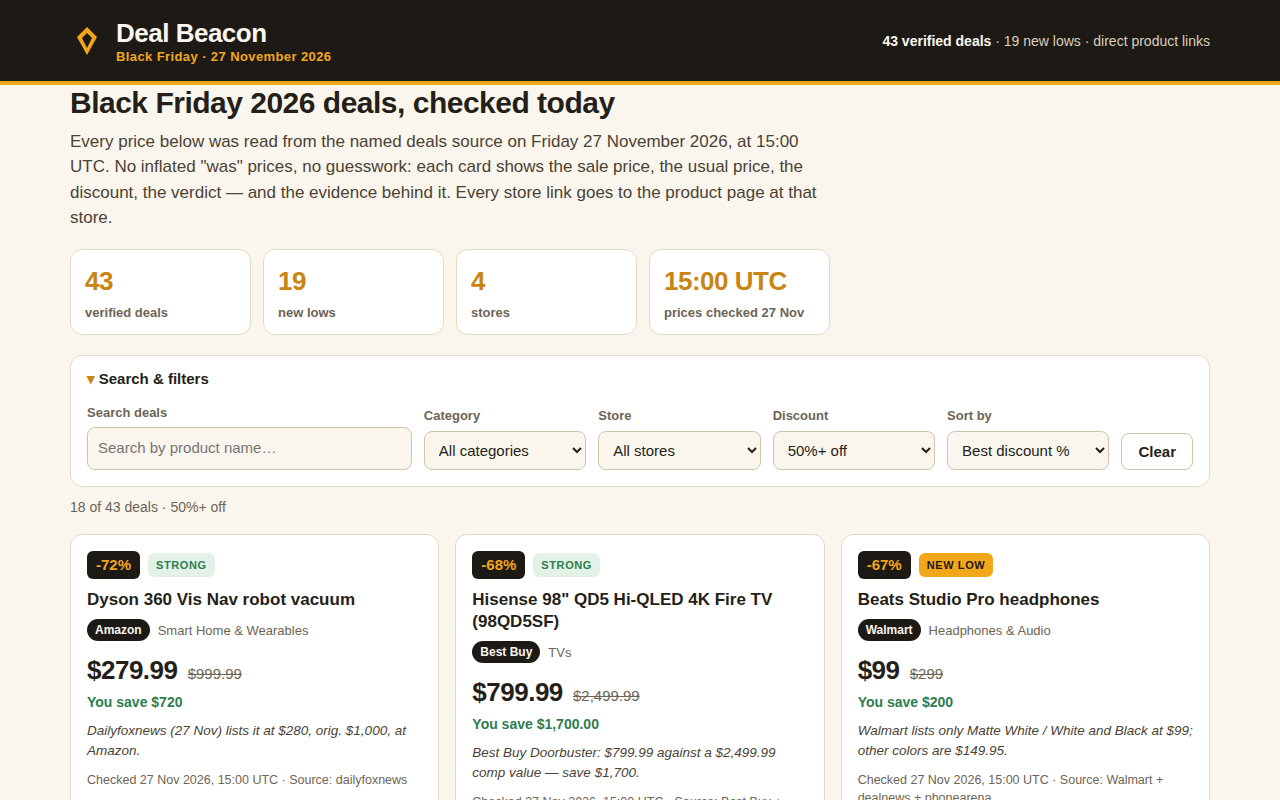
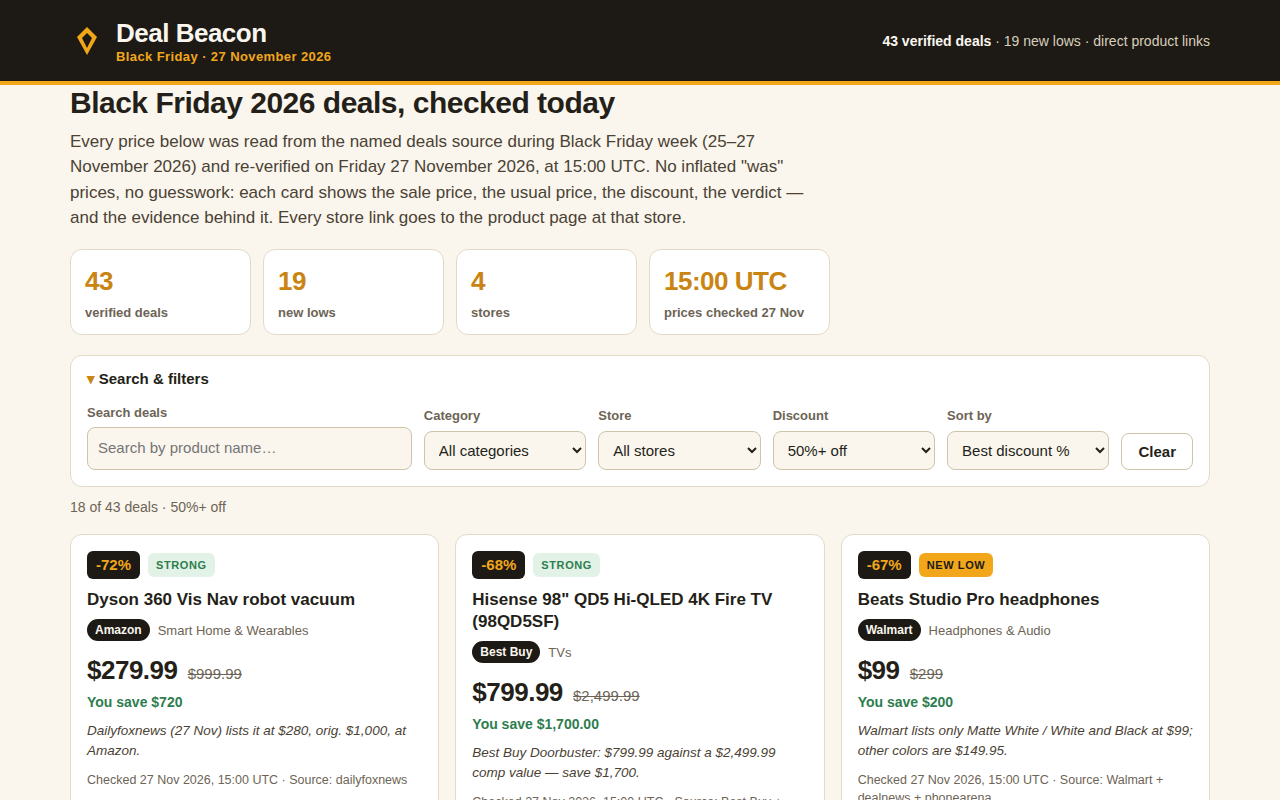
Deal Beacon v2 fixes (Hermes FIX FIRST): Kindle corrected to Target $124.99/$159.99 (22%, GOOD); check-time copy honest (25-27 Nov read, 27 Nov 15:00 UTC re-verify); 1-deals shot taller (1050px, View-at buttons visible); phone shot re-taken with metrics set before navigate (filters collapsed, cards 

Changed region(s): [[0.0625, 0.1562, 0.6562, 0.2812]]

diff --git a/app/views.js b/app/views.js
@@ -83,7 +83,7 @@ export function listPage(shown, state, counts) {
   const s = counts.stats;
   return `<section class="intro">
   <h1>Black Friday 2026 deals, checked today</h1>
-  <p class="lede">Every price below was read from the named deals source on Friday 27 November 2026, at 15:00 UTC. No inflated "was" prices, no guesswork: each card shows the sale price, the usual price, the discount, the verdict — and the evidence behind it. Every store link goes to the product page at that store.</p>
+  <p class="lede">Every price below was read from the named deals source during Black Friday week (25–27 November 2026) and re-verified on Friday 27 November 2026, at 15:00 UTC. No inflated "was" prices, no guesswork: each card shows the sale price, the usual price, the discount, the verdict — and the evidence behind it. Every store link goes to the product page at that store.</p>
   <div class="stats">
     <div class="stat"><span class="stat-num">${s.total}</span><span class="stat-label">verified deals</span></div>
     <div class="stat"><span class="stat-num">${s.newLows}</span><span class="stat-label">new lows</span></div>
@@ -99,7 +99,7 @@ export function listPage(shown, state, counts) {
 ${cards}
 <section class="verify" id="how-we-verify">
   <h2>How we verify</h2>
-  <p>Every deal on this page was read from a named deals source on 27 November 2026 (Black Friday itself), at 15:00 UTC. The source is printed on each card and on each deal page, along with the evidence for its verdict. Prices are in US dollars and the discount is computed from the sale price against the usual price — the store's own list price, never the manufacturer's suggested price.</p>
+  <p>Every deal on this page was read from a named deals source during Black Friday week (25–27 November 2026) and re-verified on 27 November 2026 at 15:00 UTC. The source is printed on each card and on each deal page, along with the evidence for its verdict. Prices are in US dollars and the discount is computed from the sale price against the usual price — the store's own list price, never the manufacturer's suggested price.</p>
   <dl class="verdicts">
     <dt><span class="verdict verdict-new-low">NEW LOW</span></dt>
     <dd>The lowest price ever, or the lowest in 90 days, according to a price tracker or the source that reported it.</dd>

diff --git a/app/index.html b/app/index.html
@@ -4,7 +4,7 @@
 <meta charset="utf-8">
 <meta name="viewport" content="width=device-width, initial-scale=1">
 <title>Deal Beacon — Black Friday 27 November 2026</title>
-<meta name="description" content="43 Black Friday 2026 deals, each checked on 27 November 2026 at 15:00 UTC at a named deals source. Every link goes to the product page at its store. Search and filter by category, store and discount.">
+<meta name="description" content="43 Black Friday 2026 deals, each read from a named deals source on 25–27 November 2026 and re-verified 27 November 2026 at 15:00 UTC. Every link goes to the product page at its store. Search and filter by category, store and discount.">
 <link rel="stylesheet" href="style.css">
 <script type="module" src="main.js"></script>
 </head>
@@ -29,7 +29,7 @@
 <main id="app" class="wrap"></main>
 <footer class="site-footer">
   <div class="wrap">
-    <p>Deal Beacon &mdash; a Black Friday 2026 deal finder. All 43 deals were read from a named deals source on 27 November 2026 at 15:00 UTC; prices in US dollars. Store links open the product page at that store. <a href="#how-we-verify">How we verify</a>.</p>
+    <p>Deal Beacon &mdash; a Black Friday 2026 deal finder. All 43 deals were read from a named deals source on 25–27 November 2026 and re-verified 27 November 2026 at 15:00 UTC; prices in US dollars. Store links open the product page at that store. <a href="#how-we-verify">How we verify</a>.</p>
   </div>
 </footer>
 </body>

diff --git a/app/data.js b/app/data.js
@@ -341,13 +341,13 @@ export const deals = [
     title: "Amazon Kindle Paperwhite 16GB (2024)",
     store: "Target",
     category: "Gaming & Toys",
-    price: 129.99,
-    was: 199.99,
+    price: 124.99,
+    was: 159.99,
     url: "https://www.target.com/p/amazon-kindle-paperwhite-2024/-/A-94165655",
     checked: "2026-11-27T15:00:00Z",
     source: "Target + The Verge",
-    verdict: "STRONG",
-    note: "The Verge calls it nearly the lowest price ever; $70 off the $199.99 list.",
+    verdict: "GOOD",
+    note: "Target lists it at $124.99 against its own $159.99 list — $35 off; The Verge calls the Paperwhite nearly the lowest price ever.",
   },
   {
     id: "dyson-v9",
